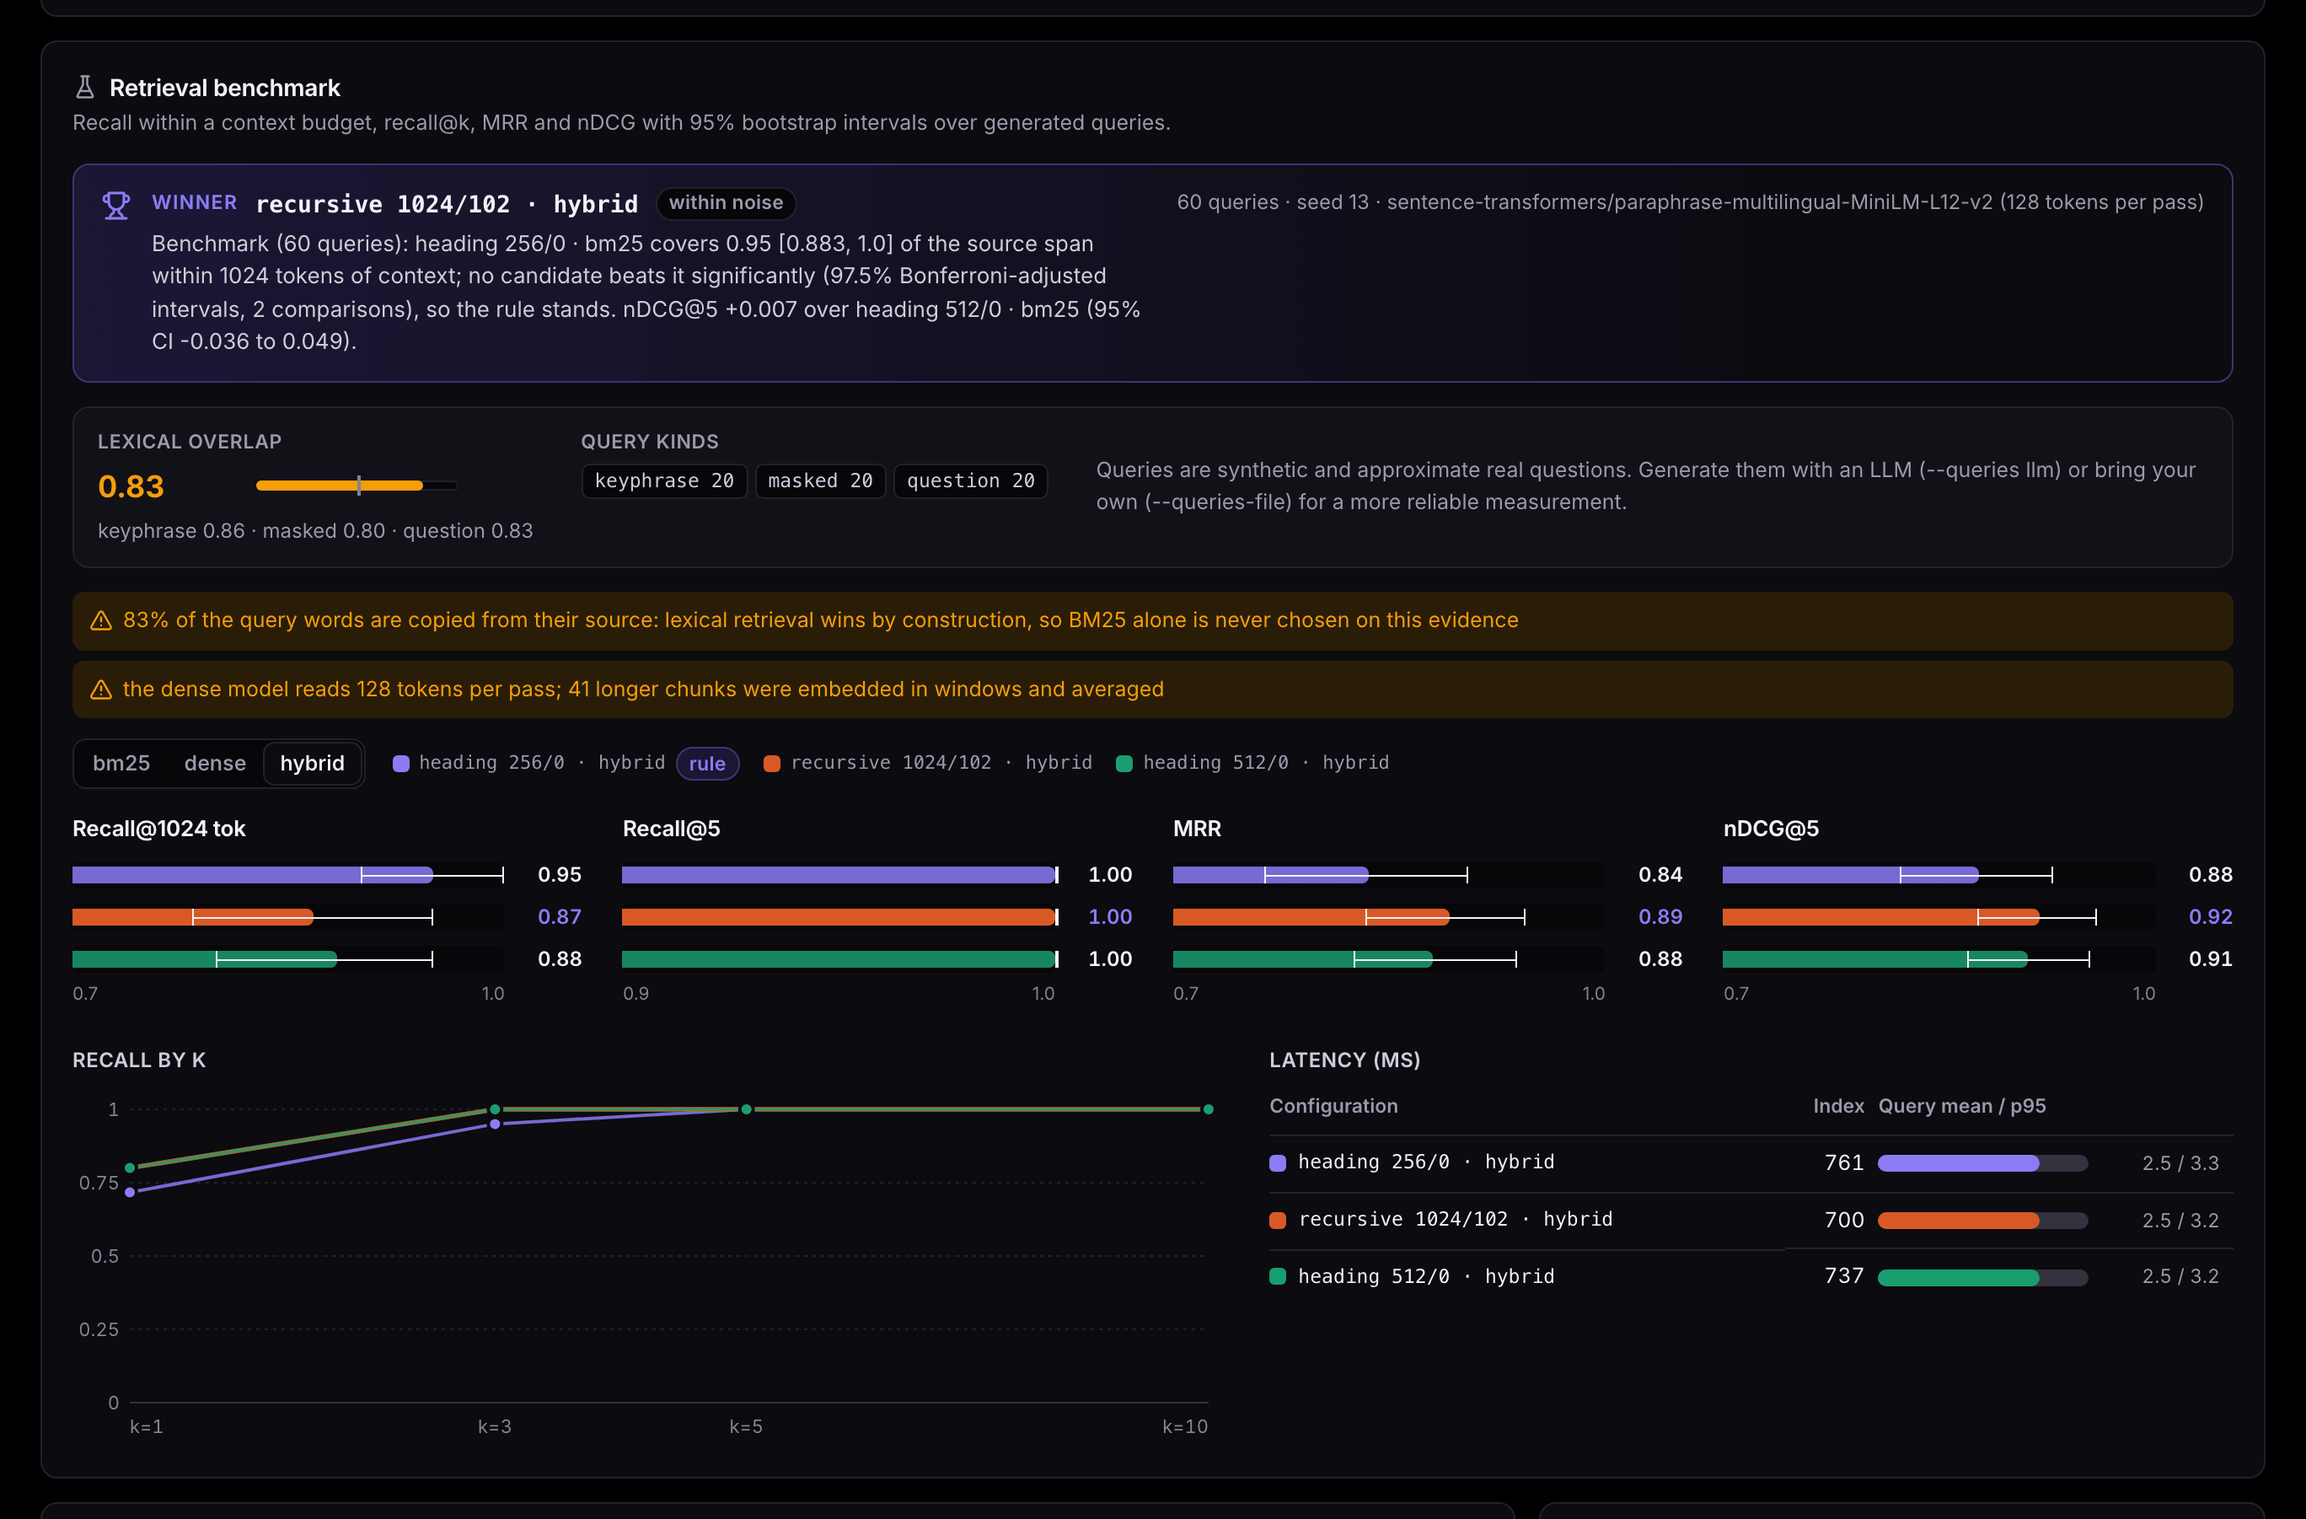
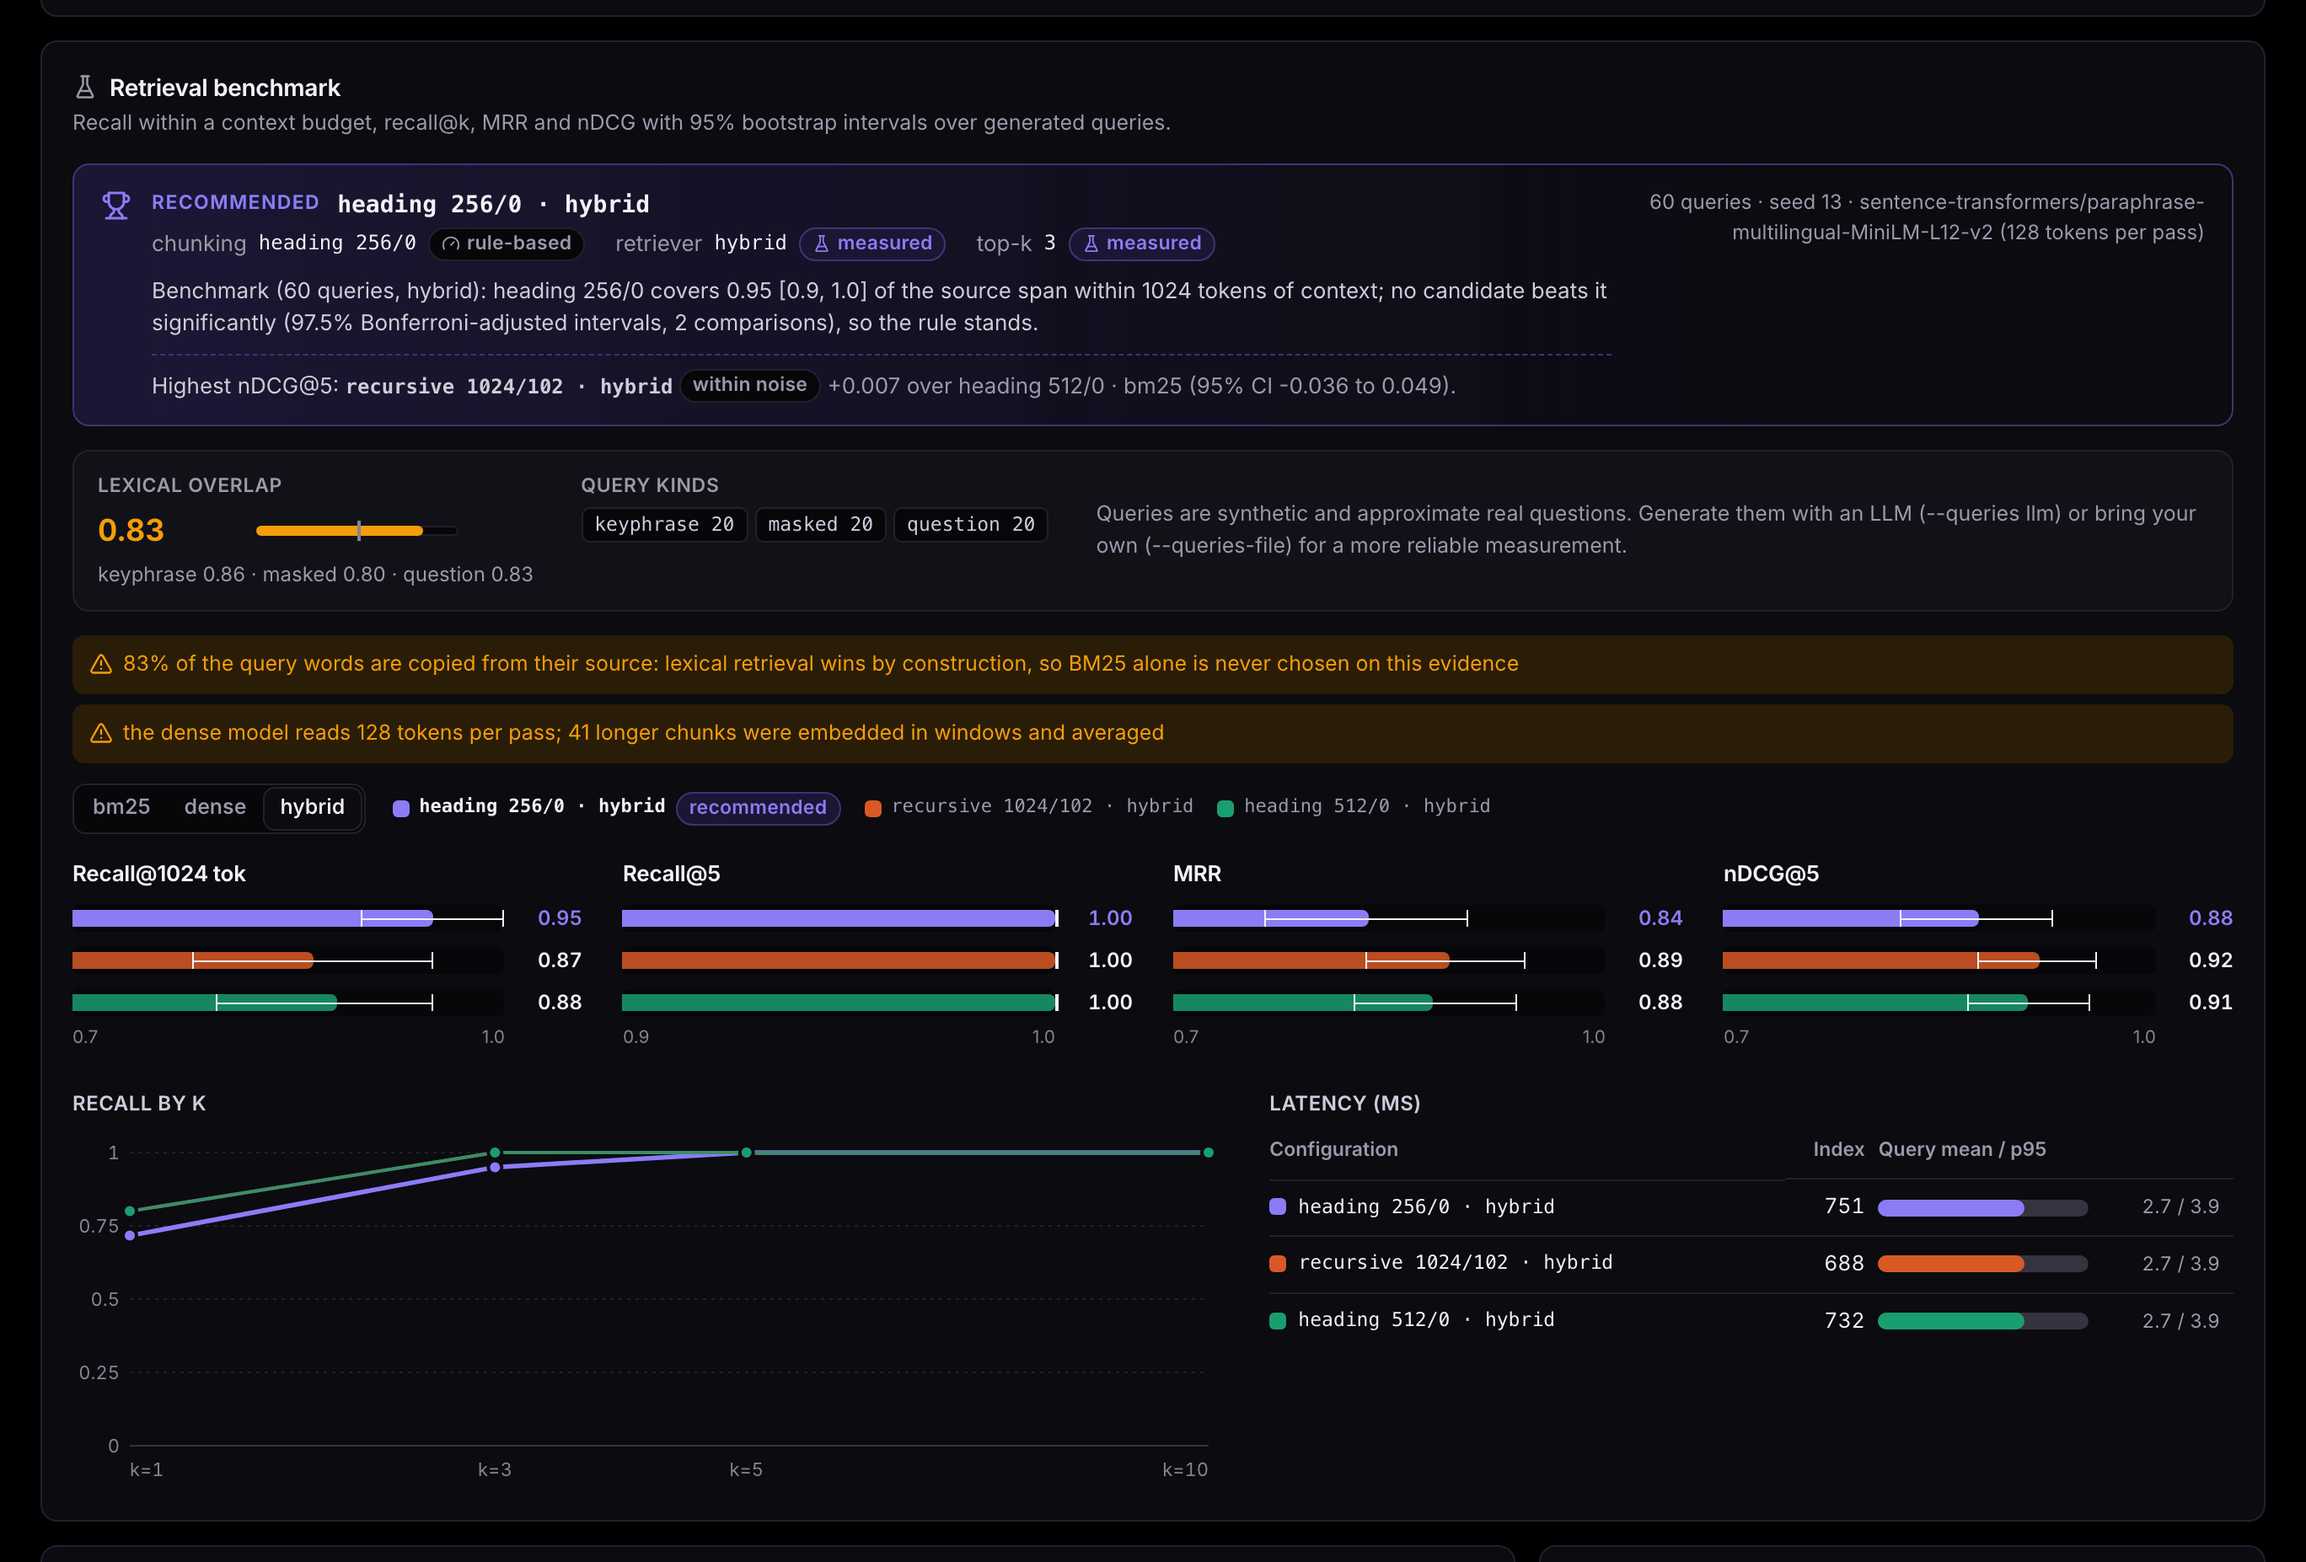
Show the recommended benchmark configuration instead of the top score
The banner names the configuration the benchmark recommends, with the
basis of its chunking, retriever and top-k, and adds the highest nDCG
underneath when that is a different configuration. The recommended row
is highlighted in the legend and the metric bars.

diff --git a/web/src/components/Benchmark.tsx b/web/src/components/Benchmark.tsx
@@ -3,7 +3,7 @@ import { useState } from "react";
 import { useWidth } from "../lib/useWidth";
 import { useStore, useT } from "../store";
 import type { Bench, BenchConfig, Interval } from "../types";
-import { Empty, Panel, Segmented, Skeleton, TipRows, useTipProps } from "./ui";
+import { BasisBadge, Empty, Panel, Segmented, Skeleton, TipRows, useTipProps } from "./ui";
 
 const METRICS = ["recall_at_budget", "recall_at_k", "mrr", "ndcg"] as const;
 type Metric = (typeof METRICS)[number];
@@ -207,7 +207,9 @@ function Results({ bench }: { bench: Bench }) {
   const order = configs.map((c) => c.label);
   const colorOf = (c: BenchConfig) => `var(--series-${order.indexOf(c.label) + 1})`;
   const decision = bench.decisions.find((d) => d.key.startsWith("chunking.")) ?? bench.decisions[0];
-  const margin = bench.winner.margin;
+  const { winner } = bench;
+  const top = winner.top_by_metric;
+  const margin = top?.margin;
   // The synthetic-queries warning is shown, translated, next to the query quality.
   const warnings = bench.mode === "file" ? bench.warnings : bench.warnings.filter((w) => !w.includes("--queries"));
   const metrics = METRICS.filter((m) => configs.every((c) => c[m]));
@@ -218,24 +220,45 @@ function Results({ bench }: { bench: Bench }) {
         <Trophy size={18} aria-hidden />
         <div>
           <div className="winner-title">
-            <span className="eyebrow">{t.winner}</span>
-            <strong className="mono">{bench.winner.label}</strong>
-            {bench.winner.significant ? <span className="badge ok">{t.significant}</span> : <span className="badge">{t.notSignificant}</span>}
+            <span className="eyebrow">{t.recommendedConfig}</span>
+            <strong className="mono">{winner.label}</strong>
           </div>
-          <p>
-            {decision ? (decision.reason_i18n?.[lang] ?? decision.reason) : null}
-            {margin && bench.winner.runner_up && (
-              <>
-                {decision ? " " : ""}
-                {t.marginText
-                  .replace("{metric}", metricName(bench.primary_metric, bench.k))
-                  .replace("{mean}", `+${n3(margin.mean)}`)
-                  .replace("{lo}", n3(margin.ci[0]))
-                  .replace("{hi}", n3(margin.ci[1]))
-                  .replace("{other}", bench.winner.runner_up)}
-              </>
-            )}
-          </p>
+          <ul className="winner-parts">
+            <li>
+              <span className="muted">{t.chunkingLower}</span>
+              <span className="mono">
+                {winner.chunking.value.strategy} {winner.chunking.value.size}/{winner.chunking.value.overlap}
+              </span>
+              <BasisBadge basis={winner.chunking.basis} />
+            </li>
+            <li>
+              <span className="muted">{t.retrieverLower}</span>
+              <span className="mono">{winner.retriever.value}</span>
+              <BasisBadge basis={winner.retriever.basis} />
+            </li>
+            <li>
+              <span className="muted">top-k</span>
+              <span className="mono">{winner.top_k.value}</span>
+              <BasisBadge basis={winner.top_k.basis} />
+            </li>
+          </ul>
+          {decision && <p>{decision.reason_i18n?.[lang] ?? decision.reason}</p>}
+          {top && top.label !== winner.label && (
+            <p className="winner-top">
+              {t.highest.replace("{metric}", metricName(top.metric, bench.k, bench.budget_tokens))} <strong className="mono">{top.label}</strong>{" "}
+              <span className={`badge${top.significant ? " ok" : ""}`}>{top.significant ? t.significant : t.notSignificant}</span>
+              {margin && top.runner_up && (
+                <span className="muted">
+                  {" "}
+                  {t.marginText
+                    .replace("{mean}", `+${n3(margin.mean)}`)
+                    .replace("{lo}", n3(margin.ci[0]))
+                    .replace("{hi}", n3(margin.ci[1]))
+                    .replace("{other}", top.runner_up)}
+                </span>
+              )}
+            </p>
+          )}
         </div>
         <div className="winner-meta muted">
           {bench.queries} {t.queriesLower} · seed {bench.seed} · {bench.dense_model ?? "BM25"}
@@ -258,23 +281,23 @@ function Results({ bench }: { bench: Bench }) {
         )}
         <div className="legend">
           {configs.map((c) => (
-            <span key={c.label} className="legend-item">
+            <span key={c.label} className={`legend-item${c.label === winner.label ? " strong" : ""}`}>
               <span className="swatch" style={{ background: colorOf(c) }} />
               <span className="mono">{c.label}</span>
-              {c.recommended && <span className="badge accent">{t.rule}</span>}
+              {c.label === winner.label && <span className="badge accent">{t.recommended}</span>}
             </span>
           ))}
         </div>
       </div>
       <div className="bench-grid">
         {metrics.map((m) => (
-          <IntervalBars key={m} configs={configs} metric={m} k={bench.k} budget={bench.budget_tokens} winner={bench.winner.label} colorOf={colorOf} />
+          <IntervalBars key={m} configs={configs} metric={m} k={bench.k} budget={bench.budget_tokens} winner={winner.label} colorOf={colorOf} />
         ))}
       </div>
       <div className="bench-grid two">
         <div>
           <h3 className="chart-title">{t.recallCurve}</h3>
-          <RecallCurve configs={configs} winner={bench.winner.label} colorOf={colorOf} />
+          <RecallCurve configs={configs} winner={winner.label} colorOf={colorOf} />
         </div>
         <div>
           <h3 className="chart-title">{t.latency}</h3>

diff --git a/web/src/i18n.ts b/web/src/i18n.ts
@@ -110,7 +110,6 @@ const en = {
   fromCandidates: "from",
   undecided: "undecided",
   overlapLower: "overlap",
-  rule: "rule",
   sections: { parser: "Parsing", chunking: "Chunking", embedding: "Embeddings", retrieval: "Retrieval" } as Record<string, string>,
   keys: {
     "chunking.documents": "Chunking: documents",
@@ -155,10 +154,13 @@ const en = {
   benchEmpty: "No benchmark yet",
   benchEmptyHint: "Generate queries from your files and measure how well each chunking retrieves their source passage.",
   benchRunning: "Generating queries and retrieving with each configuration",
-  winner: "Winner",
+  recommendedConfig: "Recommended",
+  highest: "Highest {metric}:",
+  chunkingLower: "chunking",
+  retrieverLower: "retriever",
   significant: "significant",
   notSignificant: "within noise",
-  marginText: "{metric} {mean} over {other} (95% CI {lo} to {hi}).",
+  marginText: "{mean} over {other} (95% CI {lo} to {hi}).",
   retriever: "Retriever",
   ci95: "95% CI",
   queryQuality: "Query quality",
@@ -355,7 +357,6 @@ const es: Dict = {
   fromCandidates: "de",
   undecided: "sin decidir",
   overlapLower: "solape",
-  rule: "regla",
   sections: { parser: "Extracción", chunking: "Chunking", embedding: "Embeddings", retrieval: "Recuperación" },
   keys: {
     "chunking.documents": "Chunking: documentos",
@@ -400,10 +401,13 @@ const es: Dict = {
   benchEmpty: "Aún no hay benchmark",
   benchEmptyHint: "Genera consultas a partir de tus ficheros y mide cómo recupera cada chunking su pasaje de origen.",
   benchRunning: "Generando consultas y recuperando con cada configuración",
-  winner: "Ganadora",
+  recommendedConfig: "Recomendada",
+  highest: "Mayor {metric}:",
+  chunkingLower: "chunking",
+  retrieverLower: "recuperador",
   significant: "significativa",
   notSignificant: "dentro del ruido",
-  marginText: "{metric} {mean} sobre {other} (IC 95% de {lo} a {hi}).",
+  marginText: "{mean} sobre {other} (IC 95% de {lo} a {hi}).",
   retriever: "Recuperador",
   ci95: "IC 95%",
   queryQuality: "Calidad de las consultas",

diff --git a/web/src/styles.css b/web/src/styles.css
@@ -1883,9 +1883,41 @@ kbd {
   font-size: 13px;
 }
 
+.winner-parts {
+  display: flex;
+  flex-wrap: wrap;
+  gap: 6px 18px;
+  margin: 2px 0 8px;
+  padding: 0;
+  list-style: none;
+  font-size: 13px;
+}
+
+.winner-parts li {
+  display: inline-flex;
+  align-items: center;
+  gap: 7px;
+}
+
+.winner-top {
+  margin-top: 8px;
+  padding-top: 8px;
+  border-top: 1px dashed var(--accent-line);
+}
+
+.winner-top .badge {
+  vertical-align: 1px;
+}
+
+.legend-item.strong {
+  color: var(--text);
+  font-weight: 600;
+}
+
 .winner-meta {
+  max-width: 340px;
   font-size: 12px;
-  white-space: nowrap;
+  text-align: right;
 }
 
 .bench-toolbar {
@@ -3082,7 +3114,38 @@ pre.code {
     grid-template-columns: auto minmax(0, 1fr);
   }
 
-  .winner-meta {
+  .winner-parts {
+  display: flex;
+  flex-wrap: wrap;
+  gap: 6px 18px;
+  margin: 2px 0 8px;
+  padding: 0;
+  list-style: none;
+  font-size: 13px;
+}
+
+.winner-parts li {
+  display: inline-flex;
+  align-items: center;
+  gap: 7px;
+}
+
+.winner-top {
+  margin-top: 8px;
+  padding-top: 8px;
+  border-top: 1px dashed var(--accent-line);
+}
+
+.winner-top .badge {
+  vertical-align: 1px;
+}
+
+.legend-item.strong {
+  color: var(--text);
+  font-weight: 600;
+}
+
+.winner-meta {
     grid-column: 2;
     white-space: normal;
   }

diff --git a/web/src/types.ts b/web/src/types.ts
@@ -151,6 +151,11 @@ export interface BenchConfig {
   query_ms: { mean: number; p95: number };
 }
 
+export interface Basis<T> {
+  value: T;
+  basis: "rule-based" | "measured";
+}
+
 export interface BenchDecision {
   key: string;
   basis: "rule-based" | "measured";
@@ -177,7 +182,21 @@ export interface Bench {
   warnings: string[];
   primary_metric: "ndcg" | "mrr" | "recall_at_k";
   configs: BenchConfig[];
-  winner: { label: string; runner_up: string | null; significant: boolean; margin: Interval | null };
+  /** What the benchmark recommends (not necessarily the top score), with the basis of each part. */
+  winner: {
+    label: string;
+    chunking: Basis<{ strategy: string; size: number; overlap: number }>;
+    retriever: Basis<string>;
+    top_k: Basis<number>;
+    /** Highest score on `metric`, which may not be the recommendation. */
+    top_by_metric: {
+      metric: "ndcg" | "mrr" | "recall_at_k" | "recall_at_budget";
+      label: string;
+      runner_up: string | null;
+      significant: boolean;
+      margin: Interval | null;
+    } | null;
+  };
   decisions: BenchDecision[];
   sample_queries: { id: string; text: string; file: string; start: number; end: number }[];
   elapsed_ms: number;
